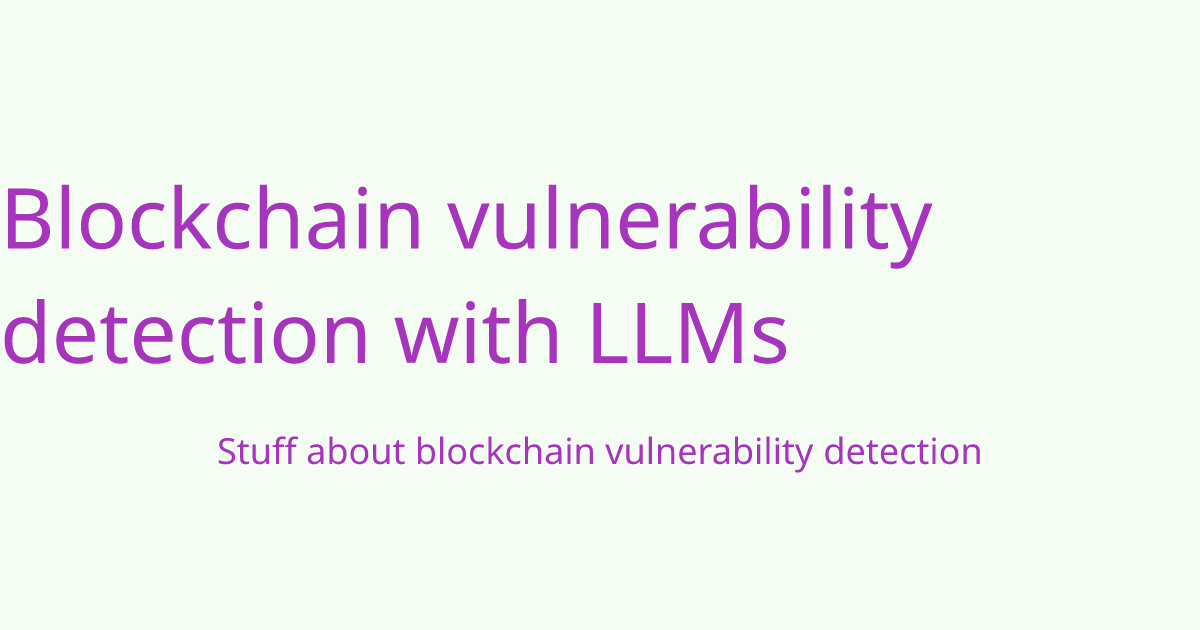
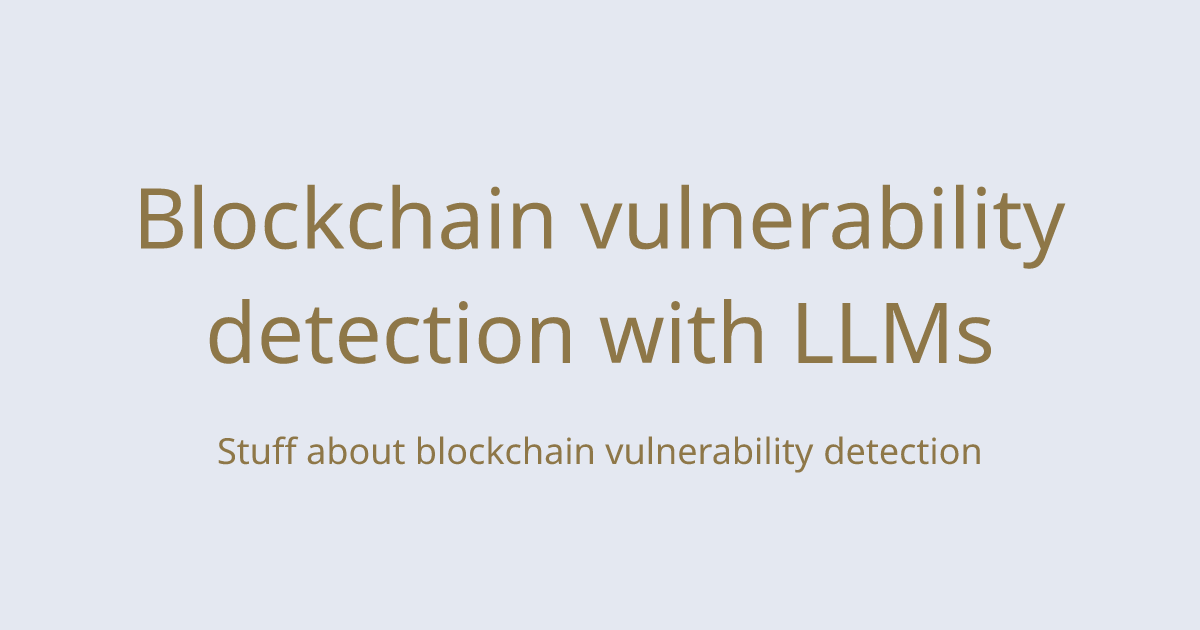
Update font size in paper-image route to 64px from 84px

Changed region(s): [[0.0, 0.2714, 0.8942, 0.4222], [0.0, 0.4825, 0.8325, 0.6032], [0.185, 0.6937, 0.8325, 0.754]]

diff --git a/app/api/paper-image/route.tsx b/app/api/paper-image/route.tsx
@@ -29,7 +29,7 @@ export async function GET(req: NextRequest) {
         }}
       >
         <h1
-          style={{ fontSize: "84px", fontWeight: "bolder", color: titleColor }}
+          style={{ fontSize: "64px", fontWeight: "bolder", color: titleColor }}
         >
           {title}
         </h1>
